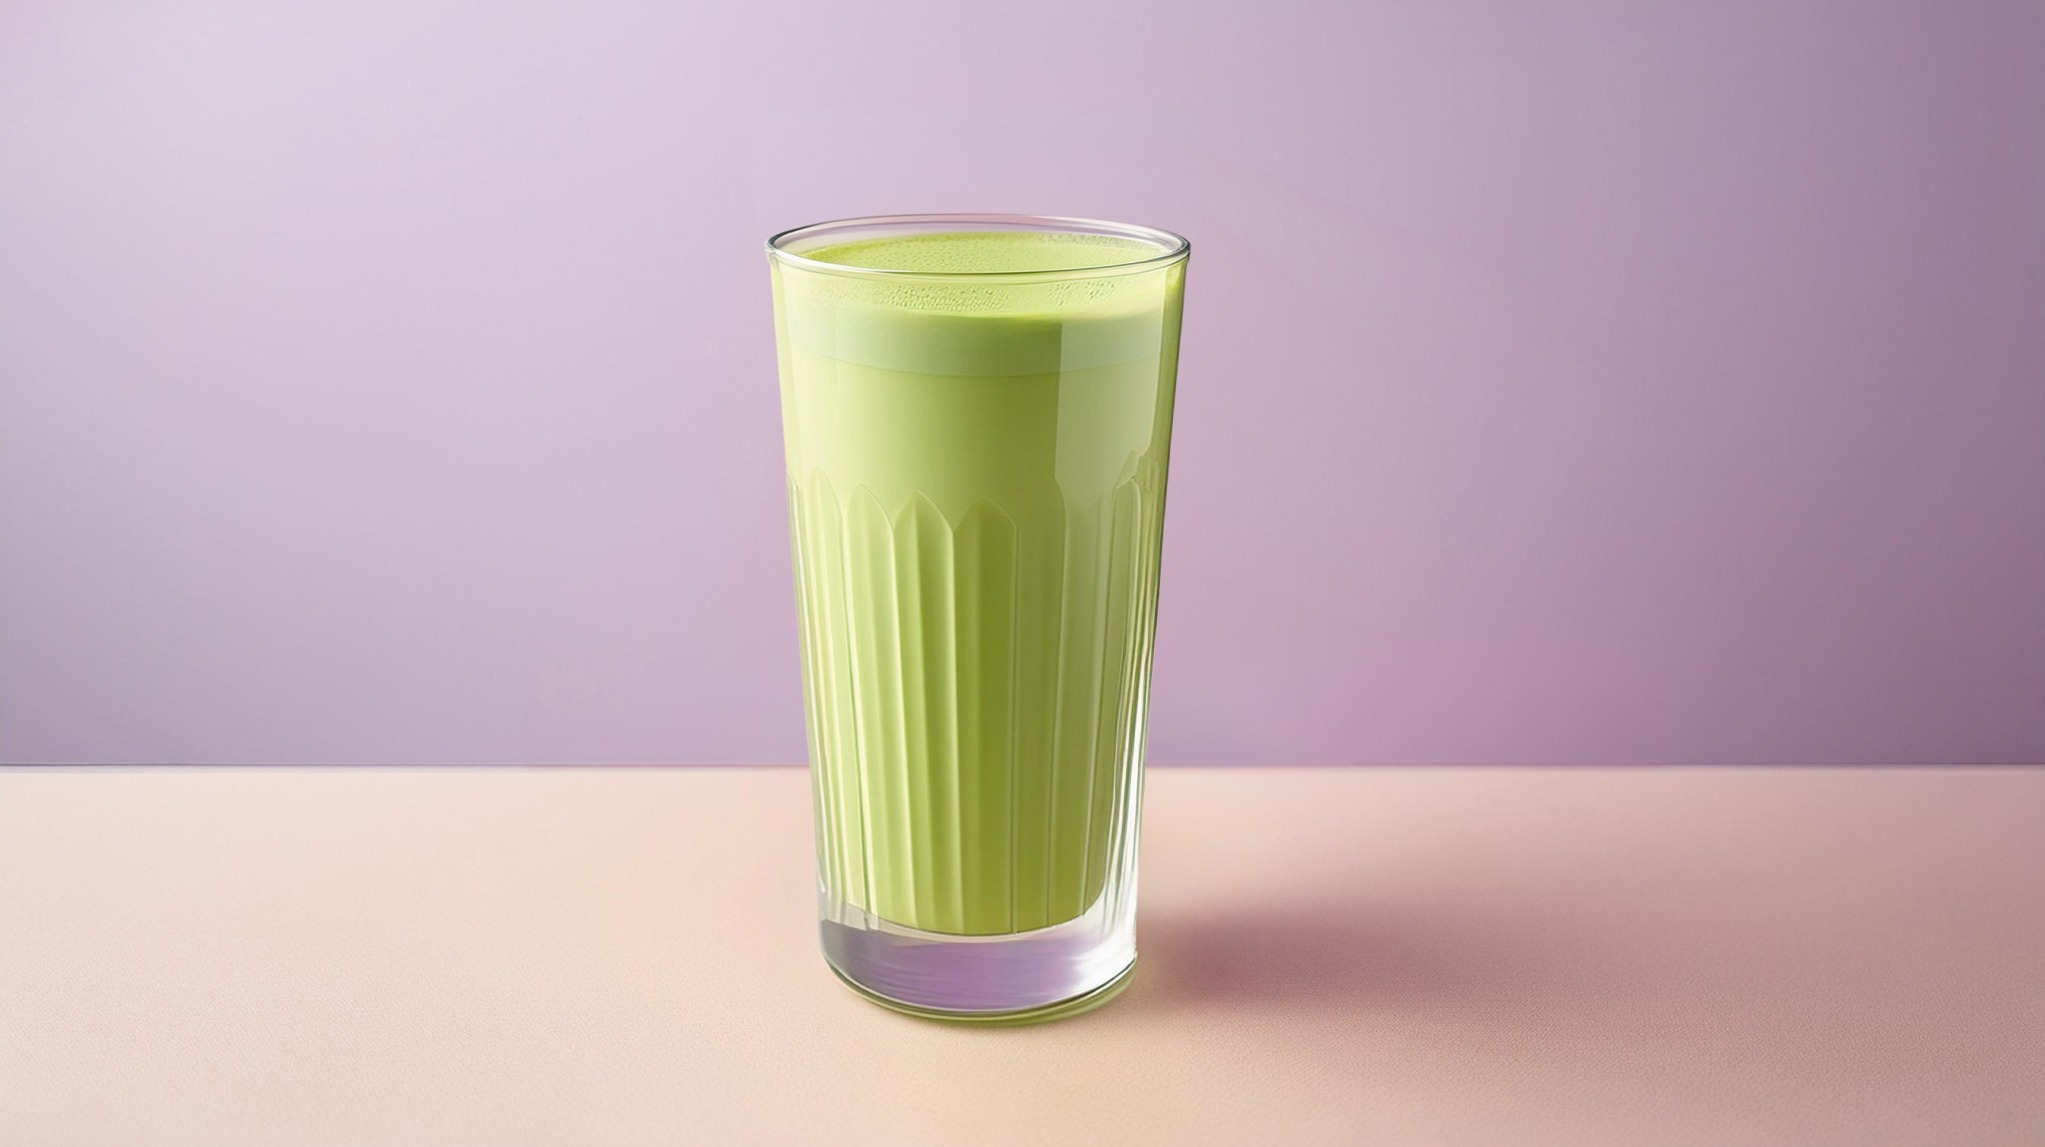
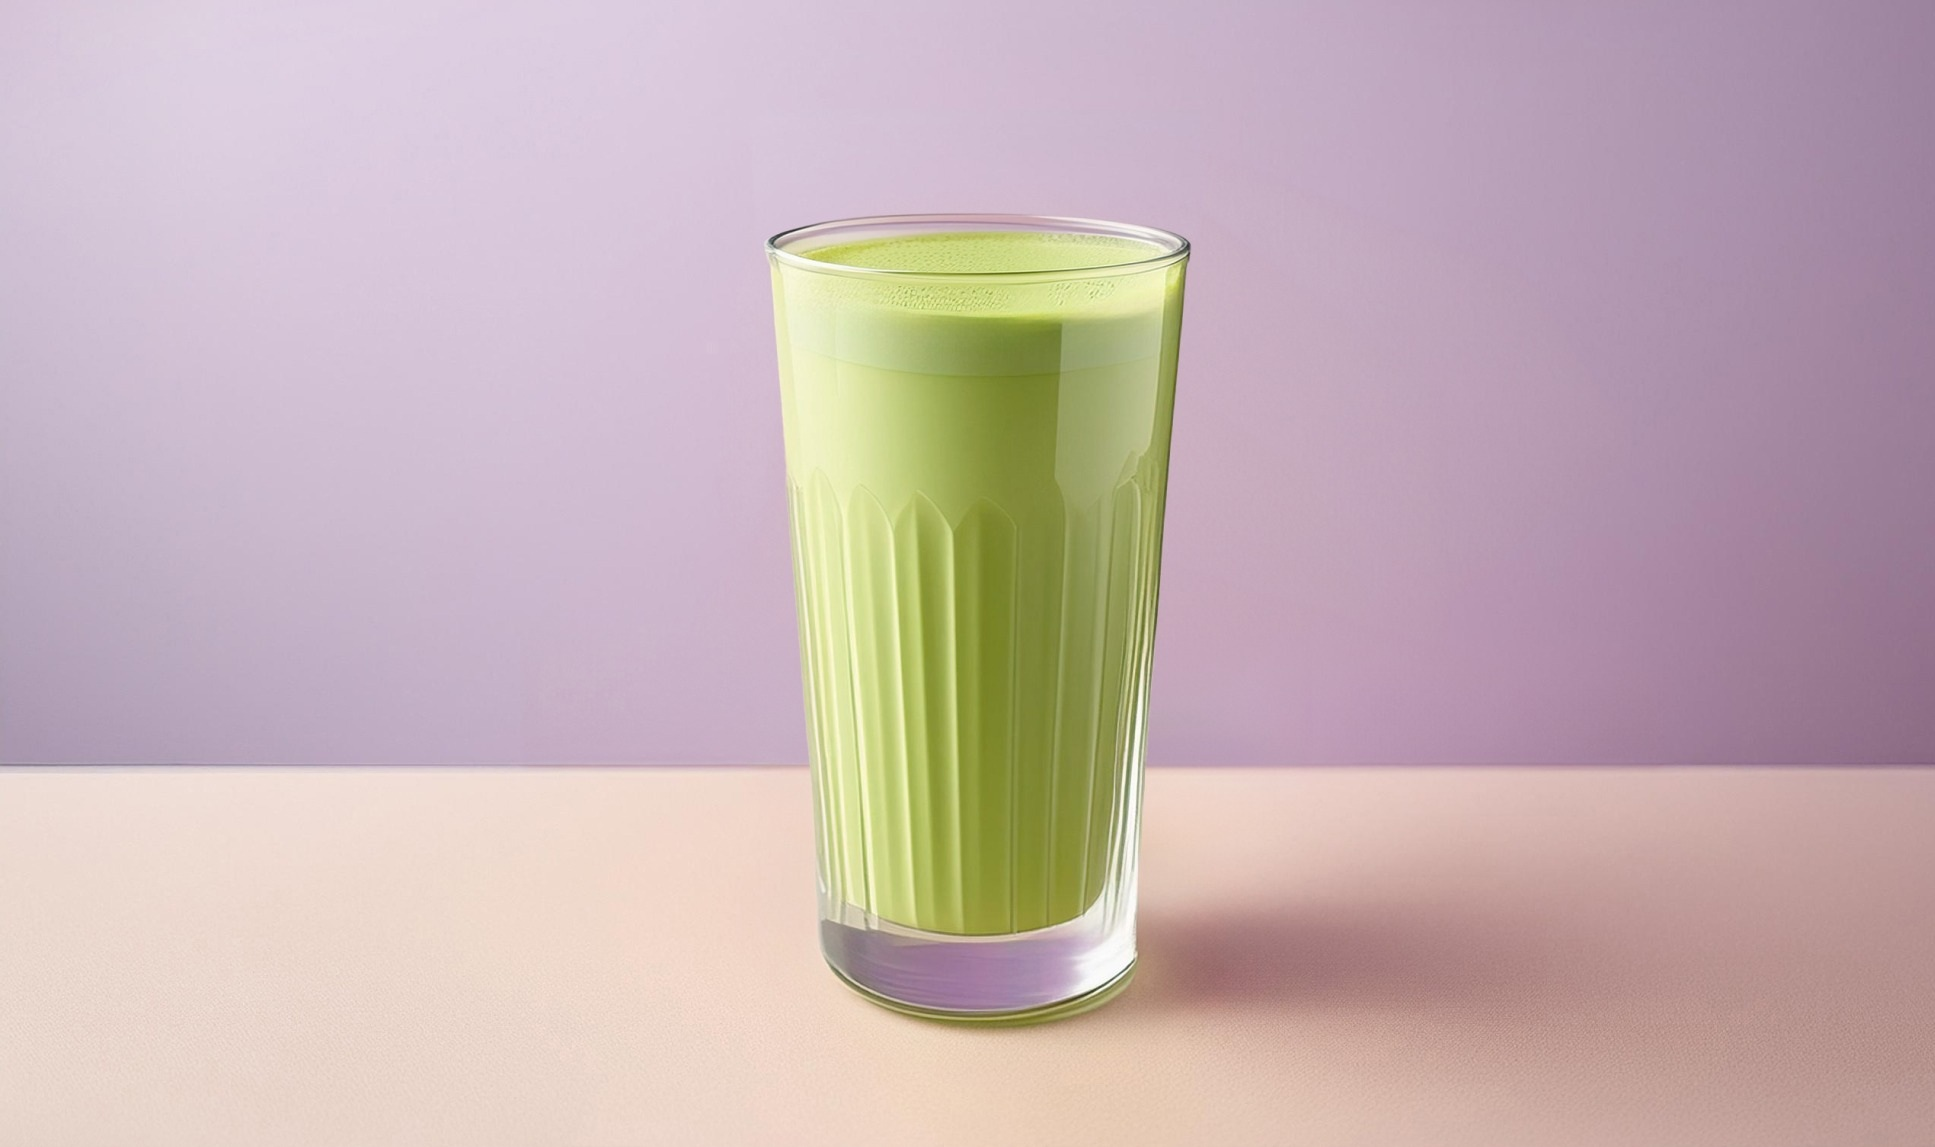
Removed key from menuCard

Changed region(s): [[0.3721, 0.1831, 0.6202, 0.9154]]

diff --git a/src/components/MenuCard.jsx b/src/components/MenuCard.jsx
@@ -1,10 +1,10 @@
 
 export const MenuCard = (props) => {
-  const {index, card} = props;
+  const {card} = props;
 
   return (
     <div
-      key={index}
+      // key={index}
       className="mt-4 mx-auto w-[300px] rounded-2xl shadow-[0px_0px_8px_#5B5B5B]/25"
     >
       {/* Заголовок */}
